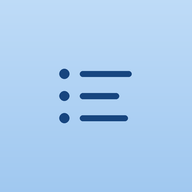
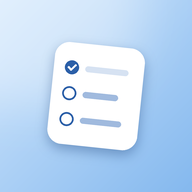
update

diff --git a/index.html b/index.html
@@ -78,13 +78,23 @@ h1,h2,h3,p{margin:0}
 .prog{height:3px;border-radius:3px;background:var(--line);overflow:hidden;margin-bottom:10px}
 .prog i{display:block;height:100%;width:0;background:var(--acc);border-radius:3px;transition:width .4s var(--ease)}
 
-.lists{display:flex;gap:8px;overflow-x:auto;padding:0 0 10px;scrollbar-width:none}
-.lists::-webkit-scrollbar{display:none}
-.lists .chip{flex:none;min-height:34px;padding:0 13px}
-.lists .chip small{margin-left:0;font-variant-numeric:tabular-nums}
-.lists .chip.on small{color:inherit;opacity:.75}
-.lists .chip.new{border-style:dashed;color:var(--mute)}
-body.shop .lists{display:none}
+.ibb{width:40px;height:40px;border-radius:50%;display:grid;place-items:center;border:1px solid var(--line);background:var(--surface);color:var(--q1);flex:none;position:relative;transition:transform .15s,background-color .15s,border-color .15s}
+.ibb .i{width:20px;height:20px}
+.ibb:active{transform:scale(.93)}
+.ibb.on{background:var(--soft);border-color:transparent}
+.ibb.dot::after{content:"";position:absolute;top:7px;right:7px;width:7px;height:7px;border-radius:50%;background:var(--q2);box-shadow:0 0 0 2px var(--surface)}
+.barin .ibb+.ibb{margin-left:2px}
+.pop{position:fixed;z-index:25;min-width:220px;max-width:calc(100vw - 24px);max-height:60vh;overflow:auto;background:var(--surface);border:1px solid var(--line);border-radius:14px;padding:6px;box-shadow:0 12px 36px rgba(0,0,0,.18);transform-origin:top right;animation:popin .16s var(--ease)}
+.pop.out{animation:popout .14s ease-in forwards}
+@keyframes popin{from{opacity:0;transform:scale(.94) translateY(-4px)}}
+@keyframes popout{to{opacity:0;transform:scale(.96) translateY(-3px)}}
+.popi{display:flex;align-items:center;gap:10px;width:100%;min-height:44px;padding:0 10px;border-radius:9px;font-size:15px;transition:background-color .12s}
+.popi:active{background:var(--fill)}
+.popi.on{color:var(--acc);font-weight:500}
+.popi .pc{width:18px;display:grid;place-items:center;flex:none}
+.popi .pc .i{width:17px;height:17px}
+.popi .pn{font-size:13px;color:var(--q2);font-variant-numeric:tabular-nums;font-weight:500}
+.popsep{height:1px;background:var(--line);margin:6px 4px}
 .inl.left{text-align:left}
 
 /* pagina-overgangen */
@@ -233,7 +243,7 @@ body:not(.shop) .shoponly,body:not(.shop) .nx,body:not(.shop) .shopbar{display:n
 @keyframes tin{from{opacity:0;transform:translate(-50%,10px)}}
 .toast button{font-weight:600;white-space:nowrap;color:inherit;text-decoration:underline;text-underline-offset:3px}
 .gate{position:fixed;inset:0;z-index:40;background:var(--bg);display:grid;place-items:center;padding:24px;text-align:center}
-.gate .logo{width:60px;height:60px;border-radius:17px;background:#a9cdf1;color:#17457f;display:grid;place-items:center;margin:0 auto 20px}
[1 lines of base64/hex data omitted]
 .gate .logo .i{width:28px;height:28px;stroke-width:1.8}
 .gate h1{font-size:24px;font-weight:600;letter-spacing:-.015em;margin-bottom:6px}
 .gate p{color:var(--mute);max-width:300px;margin:0 auto 24px;font-size:15px}
@@ -255,7 +265,6 @@ body:not(.shop) .shoponly,body:not(.shop) .nx,body:not(.shop) .shopbar{display:n
 <header class="top" id="top"><div class="wrap">
   <div class="barin" id="barIn"></div>
   <div id="listHead" hidden>
-    <div class="lists" id="listTabs"></div>
     <form class="add" id="addForm" autocomplete="off">
       <span id="addIco"></span>
       <input id="q" type="text" enterkeyhint="done" autocapitalize="sentences" placeholder="Voeg toe, bv. 2 paprika" aria-label="Product toevoegen">
@@ -278,6 +287,7 @@ body:not(.shop) .shoponly,body:not(.shop) .nx,body:not(.shop) .shopbar{display:n
 <nav class="tabs"><div id="tabs"></div></nav>
 <div class="shopbar"><button class="btn wide" data-a="shop">Klaar met winkelen</button></div>
 <div id="toastHost"></div>
+<div id="popHost"></div>
 
 <script src="firebase-config.js"></script>
 <script>
@@ -293,6 +303,17 @@ const CATS = [
  ["dieren","🐾","Huisdieren"],["overig","🛒","Overig"]];
 const CAT = Object.fromEntries(CATS.map(c => [c[0], {id:c[0], ico:c[1], name:c[2]}]));
 const DEFAULT_ORDER = CATS.map(c => c[0]);
+// Schappen zijn aan te passen in Instellingen: eigen naam en emoji, verbergen, of eigen schappen erbij.
+const CATS_BASE = CATS.map(c => c.slice());
+const catOf = c => CAT[c] ? c : "overig";
+function rebuildCats(){
+  const o = S.cats || {}, list = [];
+  CATS_BASE.forEach(([id, ico, name]) => { const x = o[id] || {}; if (x.hidden && id !== "overig") return; list.push([id, x.ico || ico, x.name || name]); });
+  Object.entries(o).filter(([, x]) => x.custom && x.name).sort((a, b) => (a[1].at || 0) - (b[1].at || 0)).forEach(([id, x]) => list.splice(list.length - 1, 0, [id, x.ico || "🏷", x.name]));
+  CATS.length = 0; list.forEach(c => CATS.push(c));
+  Object.keys(CAT).forEach(k => delete CAT[k]); CATS.forEach(c => { CAT[c[0]] = {id:c[0], ico:c[1], name:c[2]}; });
+  DEFAULT_ORDER.length = 0; CATS.forEach(c => DEFAULT_ORDER.push(c[0]));
+}
 const CATALOG_SRC = {
  groente:"Appels,Bananen,Peren,Sinaasappels,Mandarijnen,Citroen,Limoen,Druiven,Aardbeien,Blauwe bessen,Frambozen,Kiwi,Mango,Ananas,Meloen,Avocado,Tomaten,Cherrytomaten,Komkommer,Paprika,Courgette,Aubergine,Broccoli,Bloemkool,Spinazie,Sla,Rucola,Wortels,Ui,Rode ui,Knoflook,Prei,Champignons,Aardappelen,Zoete aardappel,Sperziebonen,Spruitjes,Boerenkool,Witlof,Bosui,Gember,Rode peper,Verse basilicum,Verse peterselie,Koriander,Mais,Pompoen,Venkel,Radijs,Bleekselderij,Rode kool,Witte kool,Paksoi,Taugé,Snoeptomaatjes",
  brood:"Brood,Volkorenbrood,Wit brood,Bruin brood,Krentenbollen,Croissants,Afbakbroodjes,Pistoletjes,Stokbrood,Tortilla wraps,Pitabroodjes,Beschuit,Crackers,Knäckebröd,Roggebrood,Ontbijtkoek,Bolletjes,Naanbrood",
@@ -361,8 +382,8 @@ for (const [cat, list] of Object.entries(CATALOG_SRC)) for (const name of list.s
 
 /* ---------- toestand ---------- */
 const LIST = "boodschappen";
-const PATH = {items:"lists/" + LIST + "/items", products:"products", stores:"stores", templates:"templates", history:"history", xlists:"xlists", xitems:"xitems"};
-const S = {items:{}, products:{}, stores:{}, templates:{}, history:{}, xlists:{}, xitems:{}};
+const PATH = {items:"lists/" + LIST + "/items", products:"products", stores:"stores", templates:"templates", history:"history", xlists:"xlists", xitems:"xitems", cats:"cats"};
+const S = {items:{}, products:{}, stores:{}, templates:{}, history:{}, xlists:{}, xitems:{}, cats:{}};
 let DB = null, user = null, ready = false, sheet = null, flashKey = null, wake = null;
 let trip = []; try { trip = JSON.parse(pref.get("trip", "[]")) || []; } catch {}
 const DAY = 864e5;
@@ -563,6 +584,7 @@ const IC = {
   clock:"<circle cx='12' cy='12' r='9'/><path d='M12 7v5l3 2'/>",
   share:"<path d='M12 15V3M8 7l4-4 4 4M5 12v7a1 1 0 0 0 1 1h12a1 1 0 0 0 1-1v-7'/>",
   grip:"<path d='M5 8h14M5 12h14M5 16h14'/>",
+  chevD:"<path d='m7 10 5 5 5-5'/>", tag:"<path d='M3 12V4a1 1 0 0 1 1-1h8l9 9-9 9z'/><circle cx='8' cy='8' r='1.4'/>", edit:"<path d='M4 20h4L19 9l-4-4L4 16z'/>",
   sliders:"<path d='M4 7h10M18 7h2M4 17h2M10 17h10'/><circle cx='16' cy='7' r='2'/><circle cx='8' cy='17' r='2'/>"
 };
 const ico = n => "<svg class='i' viewBox='0 0 24 24' aria-hidden='true'>" + IC[n] + "</svg>";
@@ -578,8 +600,8 @@ try { mq.addEventListener("change", applyTheme); } catch {}
 
 /* ---------- navigatie ---------- */
 const TABS = [["lijst", "Lijst", "list"], ["bijna-op", "Bijna op", "home"], ["templates", "Templates", "layers"], ["meer", "Meer", "more"]];
-const PARENT = {ding:"lijst", lijsten:"lijst", winkels:"meer", "vorige-lijsten":"meer", instellingen:"meer", looproute:"winkels", template:"templates", bezoek:"vorige-lijsten", product:"lijst"};
-const NEEDS = {ding:1, looproute:1, template:1, bezoek:1, product:1};
+const PARENT = {schappen:"instellingen", schap:"schappen", ding:"lijst", lijsten:"lijst", winkels:"meer", "vorige-lijsten":"meer", instellingen:"meer", looproute:"winkels", template:"templates", bezoek:"vorige-lijsten", product:"lijst"};
+const NEEDS = {schap:1, ding:1, looproute:1, template:1, bezoek:1, product:1};
 const PAGES = {}, args = {}, scrolls = {};
 let route = null, depth = 0, navDir = "", tick = {k:"", t:0};
 const hashName = () => { try { return decodeURIComponent(location.hash.slice(1)) || "lijst"; } catch { return "lijst"; } };
@@ -669,7 +691,7 @@ function renderSug(){
     const what = arg.explicit ? badge(arg) : (r.unit && r.dq ? amount({qty:r.dq, unit:r.unit}) : "");
     const right = r.isNew ? "<small>" + (what ? esc(what) + " · " : "") + "Nieuw product</small>"
       : it ? "<small class='inc'>Staat er al · " + amount(it) + (d === null ? "" : " → " + amount({qty:(it.qty || 1) + d, unit:it.unit})) + "</small>"
-      : "<small>" + (what ? esc(what) + " · " : "") + esc(CAT[r.cat].name) + "</small>";
+      : "<small>" + (what ? esc(what) + " · " : "") + esc(CAT[catOf(r.cat)].name) + "</small>";
     return "<button type='button' class='s" + (i === enterIdx ? " enter" : "") + "' data-a='pick' data-k='" + i + "'><span class='grow'>" + esc(r.name) + "</span>" + right + "</button>";
   }).join("");
   box.hidden = false;
@@ -710,7 +732,7 @@ function xadd(rawName, a){
 function xtoggle(k, quiet){ const it = S.xitems[k]; if (!it) return; DB.set("xitems", k, {checked:!it.checked, checkedAt:Date.now()}); if (!quiet) try { navigator.vibrate && navigator.vibrate(8); } catch {} }
 function xremove(k){ const old = S.xitems[k]; if (!old) return; DB.del("xitems", k); toast(old.name + " verwijderd", "Ongedaan maken", () => DB.set("xitems", k, old)); }
 function xstep(k, d){ const it = S.xitems[k]; if (!it) return; const st = stepOf(it.unit); if (d < 0 && (it.qty || 1) <= st) return xremove(k); DB.inc("xitems", k, "qty", d * st); }
-function renderX(l, shop){
+function renderX(l, shop, cur){
   const name = S.xlists[l].name, all = xOf(l), open = all.filter(([, v]) => !v.checked), done = all.filter(([, v]) => v.checked);
   $("progWrap").hidden = !all.length;
   $("prog").style.width = all.length ? (100 * done.length / all.length) + "%" : "0";
@@ -723,21 +745,37 @@ function renderX(l, shop){
     h += "<h3 class='ch'>In het karretje<span class='n'><button data-a='xclear'>Wissen</button></span></h3><div class='group'>" + done.map(([k, v]) => rowHtml(k, v, null, null, true)).join("") + "</div>";
   }
   $("list").innerHTML = h; flashKey = null;
-  return {title:shop ? "Winkelen bij " + name : name, sub:all.length ? done.length + " van " + all.length + " gepakt" : "Nog niets op de lijst", act:shop || !open.length ? "" : "<button class='pill' data-a='shop'>" + ico("cart") + "Winkelen</button>"};
+  const others = allLists().some(([id]) => id !== cur && openCount(id) > 0);
+  const listBtn = "<button class='ibb" + (others ? " dot" : "") + "' data-a='lists' aria-label='Lijsten' aria-haspopup='menu' aria-expanded='false'>" + ico("list") + "</button>";
+  return {title:shop ? "Winkelen bij " + name : name, sub:all.length ? done.length + " van " + all.length + " gepakt" : "Nog niets op de lijst", act:shop ? "" : listBtn + (open.length ? "<button class='ibb' data-a='shop' aria-label='Winkelen'>" + ico("cart") + "</button>" : "")};
 }
-function renderListTabs(cur){
-  const box = $("listTabs"), sl = box.scrollLeft, n0 = Object.values(S.items).filter(v => !v.checked).length;
-  const chip = (id, name, n) => "<button class='chip" + (id === cur ? " on" : "") + "' data-a='setlist' data-k='" + esc(id) + "'>" + esc(name) + (n ? "<small>" + n + "</small>" : "") + "</button>";
-  box.innerHTML = chip("boodschappen", "Boodschappen", n0) + Object.entries(S.xlists).sort((a, b) => a[1].name.localeCompare(b[1].name)).map(([id, l]) => chip(id, l.name, xOf(id).filter(([, v]) => !v.checked).length)).join("") +
-    "<button class='chip new' data-a='nav' data-k='lijsten'>" + ico("plus") + "Lijst</button>";
-  box.scrollLeft = sl;
+// Lijstkeuze: icoon rechtsboven, opent een klein menu met alle lijsten.
+const openCount = id => id === "boodschappen" ? Object.values(S.items).filter(v => !v.checked).length : xOf(id).filter(([, v]) => !v.checked).length;
+const allLists = () => [["boodschappen", "Boodschappen"]].concat(Object.entries(S.xlists).sort((a, b) => a[1].name.localeCompare(b[1].name)).map(([id, l]) => [id, l.name]));
+function popHtml(){
+  const cur = curList();
+  return "<div class='pop' role='menu'>" + allLists().map(([id, n]) => { const c = openCount(id); return "<button class='popi" + (id === cur ? " on" : "") + "' data-a='setlist' data-k='" + esc(id) + "' role='menuitemradio' aria-checked='" + (id === cur) + "'><span class='pc'>" + (id === cur ? ico("check") : "") + "</span><span class='grow'>" + esc(n) + "</span>" + (c ? "<span class='pn'>" + c + "</span>" : "") + "</button>"; }).join("") +
+    "<div class='popsep'></div><button class='popi' data-a='newlist'><span class='pc'>" + ico("plus") + "</span><span class='grow'>Nieuwe lijst</span></button><button class='popi' data-a='nav' data-k='lijsten'><span class='pc'>" + ico("edit") + "</span><span class='grow'>Lijsten beheren</span></button></div>";
 }
+function openPop(){
+  const btn = document.querySelector("#barIn [data-a=lists]"); if (!btn) return;
+  const r = btn.getBoundingClientRect(), host = $("popHost");
+  host.innerHTML = popHtml();
+  const p = host.firstChild;
+  p.style.top = (r.bottom + 6) + "px"; p.style.right = Math.max(12, window.innerWidth - r.right) + "px";
+  btn.classList.add("on"); btn.setAttribute("aria-expanded", "true");
+}
+function closePop(){
+  const host = $("popHost"), p = host.firstChild; if (!p) return;
+  const btn = document.querySelector("#barIn [data-a=lists]"); if (btn) { btn.classList.remove("on"); btn.setAttribute("aria-expanded", "false"); }
+  p.classList.add("out"); setTimeout(() => { if (host.firstChild === p) host.innerHTML = ""; }, 140);
+}
+const popOpen = () => !!($("popHost").firstChild && !$("popHost").firstChild.classList.contains("out"));
 function renderList(){
   const shop = document.body.classList.contains("shop"), cur = curList();
-  renderListTabs(cur);
   $("q").placeholder = cur === "boodschappen" ? "Voeg toe, bv. 2 paprika" : "Voeg toe aan " + S.xlists[cur].name;
   $("demo").style.display = cur === "boodschappen" ? "" : "none";
-  if (cur !== "boodschappen") return renderX(cur, shop);
+  if (cur !== "boodschappen") return renderX(cur, shop, cur);
   const all = Object.entries(S.items).sort((a, b) => a[1].name.localeCompare(b[1].name));
   const open = all.filter(([, v]) => !v.checked), done = all.filter(([, v]) => v.checked);
   const ts = tripStores(), ids = ts.map(s => s.id), multi = ts.length > 1;
@@ -762,10 +800,12 @@ function renderList(){
     h += "<h3 class='ch'>In het karretje<span class='n'><button data-a='clear'>Wissen</button></span></h3><div class='group'>" + done.map(([k, v]) => rowHtml(k, v)).join("") + "</div>";
   }
   $("list").innerHTML = h; flashKey = null;
+  const others = allLists().some(([id]) => id !== cur && openCount(id) > 0);
+  const listBtn = "<button class='ibb" + (others ? " dot" : "") + "' data-a='lists' aria-label='Lijsten' aria-haspopup='menu' aria-expanded='false'>" + ico("list") + "</button>";
   return {
     title: shop ? "Winkelen" : "Boodschappen",
     sub: (all.length ? done.length + " van " + all.length + " gepakt" : "Nog niets op de lijst") + (ids.some(i => i !== "standaard") ? " · <button data-a='nav' data-k='winkels'>" + esc(ts.map(s => s.name).join(" → ")) + "</button>" : ""),
-    act: shop || !open.length ? "" : "<button class='pill' data-a='shop'>" + ico("cart") + "Winkelen</button>"
+    act: shop ? "" : listBtn + (open.length ? "<button class='ibb' data-a='shop' aria-label='Winkelen'>" + ico("cart") + "</button>" : "")
   };
 }
 
@@ -773,7 +813,7 @@ function renderList(){
 PAGES["bijna-op"] = () => {
   const edit = !!args.stEdit, st = allProducts().filter(p => p.staple).sort(byName);
   let h = st.length ? "<p class='lead'>" + (edit ? "Tik op een product om het uit dit overzicht te halen." : "Tik aan wat thuis bijna op is. Het staat dan direct op de boodschappenlijst.") + "</p>" : empty("home", "Nog geen vaste producten", "Voeg hieronder toe wat jullie altijd in huis willen hebben.");
-  for (const c of DEFAULT_ORDER) { const r = st.filter(p => p.cat === c); if (r.length) h += catHead(c) + "<div class='chips'>" + r.map(p => "<button class='chip" + (!edit && onList(p.k) ? " on" : "") + "' data-a='staple' data-k='" + esc(p.k) + "'>" + esc(p.name) + (edit ? ico("x") : "") + "</button>").join("") + "</div>"; }
+  for (const c of DEFAULT_ORDER) { const r = st.filter(p => catOf(p.cat) === c); if (r.length) h += catHead(c) + "<div class='chips'>" + r.map(p => "<button class='chip" + (!edit && onList(p.k) ? " on" : "") + "' data-a='staple' data-k='" + esc(p.k) + "'>" + esc(p.name) + (edit ? ico("x") : "") + "</button>").join("") + "</div>"; }
   const sug = allProducts().filter(p => !p.staple && p.n >= 2).sort((a, b) => b.n - a.n).slice(0, 8);
   h += "<h3 class='ch'>Vast product toevoegen</h3><div class='line'><input class='field' id='stName' placeholder='bv. Olijfolie' enterkeyhint='done' data-enter='stnew'><button class='btn' data-a='stnew'>Toevoegen</button></div>" +
     (sug.length ? "<h3 class='ch'>Vaak gekocht</h3><div class='chips'>" + sug.map(p => "<button class='chip' data-a='stadd' data-k='" + esc(p.k) + "'>" + ico("plus") + esc(p.name) + "</button>").join("") + "</div>" : "");
@@ -833,10 +873,33 @@ PAGES.looproute = () => {
     ord.map(c => "<div class='cell" + (mv === c ? " flash" : "") + "'><span class='em'>" + CAT[c].ico + "</span><span class='grow'>" + esc(CAT[c].name) + "</span><span class='grip' aria-hidden='true'>" + ico("grip") + "</span></div>").join("") + "</div>" +
     (st.id !== "standaard" ? "<button class='btn text danger wide' data-a='sdel'>Winkel verwijderen</button>" : "<p class='hint'>De standaardwinkel kun je hernoemen, maar niet verwijderen.</p>")};
 };
+PAGES.schappen = () => {
+  const o = S.cats || {}, hidden = CATS_BASE.filter(c => o[c[0]] && o[c[0]].hidden);
+  return {title:"Schappen", html:
+    "<p class='lead'>Pas de naam of emoji van een schap aan, verberg schappen die je niet gebruikt, of maak eigen schappen. De volgorde stel je per winkel in bij de looproute.</p>" +
+    "<div class='group'>" + CATS.map(c => navCell("schap", c[0], "<span class='em' style='margin-right:10px'>" + c[1] + "</span>" + esc(c[2]), o[c[0]] && o[c[0]].custom ? "Eigen schap" : "")).join("") + "</div>" +
+    (hidden.length ? "<h3 class='ch'>Verborgen</h3><div class='group'>" + hidden.map(c => navCell("schap", c[0], "<span class='em' style='margin-right:10px;opacity:.5'>" + ((o[c[0]] && o[c[0]].ico) || c[1]) + "</span>" + esc((o[c[0]] && o[c[0]].name) || c[2]), "Verborgen")).join("") + "</div>" : "") +
+    "<h3 class='ch'>Schap toevoegen</h3><div class='line'><input class='field' id='catIco' style='flex:0 0 58px;text-align:center;padding:0' maxlength='4' placeholder='🏷' aria-label='Emoji'><input class='field' id='catName' placeholder='bv. Feestartikelen' enterkeyhint='done' autocapitalize='sentences' data-enter='catadd'><button class='btn' data-a='catadd'>Toevoegen</button></div>" +
+    "<p class='hint'>Producten in een verborgen of verwijderd schap komen onder Overig te staan.</p>"};
+};
+PAGES.schap = () => {
+  const id = args.schap, o = (S.cats || {})[id] || {}, base = CATS_BASE.find(c => c[0] === id);
+  if (!base && !o.custom) return gone();
+  const name = o.name || (base && base[2]), icon = o.ico || (base && base[1]) || "🏷", n = Object.values(S.items).filter(v => v.cat === id).length + Object.values(S.products).filter(p => p.cat === id).length;
+  const ka = " data-k='" + esc(id) + "'", changed = base && (o.name || o.ico);
+  return {title:name, html:
+    "<div class='group'><label class='cell'><span class='lbl'>Naam</span><input class='inl grow' id='catNameIn'" + ka + " value='" + esc(name) + "' enterkeyhint='done'></label>" +
+    "<label class='cell'><span class='grow'>Emoji</span><input class='inl' id='catIcoIn'" + ka + " value='" + esc(icon) + "' maxlength='4' style='width:60px;font-size:20px'></label>" +
+    (base && id !== "overig" ? "<div class='cell'><span class='grow'><span class='ct'>Tonen</span><span class='cs'>Verborgen schappen verdwijnen uit keuzelijsten en looproutes</span></span><button class='sw" + (o.hidden ? "" : " on") + "' data-a='cathide'" + ka + " role='switch' aria-checked='" + !o.hidden + "' aria-label='Tonen'><i></i></button></div>" : "") + "</div>" +
+    (id === "overig" ? "<p class='hint' style='margin:-4px 2px 18px'>Overig kun je niet verbergen: hier komen producten zonder passend schap.</p>" : "") +
+    (changed ? "<button class='btn text wide' data-a='catreset'" + ka + ">Oorspronkelijke naam en emoji terugzetten</button>" : "") +
+    (o.custom ? "<button class='btn text danger wide' data-a='catdel'" + ka + ">Schap verwijderen</button>" : "")};
+};
 PAGES.instellingen = () => {
   const t = pref.get("theme", "auto");
   return {title:"Instellingen", html:
     "<h3 class='ch'>Weergave</h3><div class='seg'>" + [["auto", "Systeem"], ["light", "Licht"], ["dark", "Donker"]].map(o => "<button data-a='theme' data-k='" + o[0] + "' class='" + (t === o[0] ? "on" : "") + "'>" + o[1] + "</button>").join("") + "</div><p class='hint' style='margin-top:-4px'>Geldt alleen voor dit apparaat.</p>" +
+    "<h3 class='ch'>Boodschappen</h3><div class='group'>" + navCell("schappen", undefined, "Schappen", CATS.length + " schappen", "tag") + "</div>" +
     "<h3 class='ch'>Account</h3><div class='group'>" + (user
       ? "<div class='cell'><span class='grow'>Naam</span><span class='qty'>" + esc(user.displayName || "") + "</span></div><div class='cell'><span class='grow'>E-mail</span><span class='qty'>" + esc(user.email || "") + "</span></div>"
       : "<div class='cell'><span class='grow'><span class='ct'>Demomodus</span><span class='cs'>Niet gekoppeld, alles staat alleen in deze browser</span></span></div>") + "</div>" +
@@ -870,7 +933,7 @@ PAGES.product = () => {
     "<div class='seg'>" + UNIT_LABEL.map(u => "<button data-a='setunit'" + ka + " data-u='" + u[0] + "' class='" + ((it.unit || "") === u[0] ? "on" : "") + "'>" + u[1] + "</button>").join("") + "</div>" +
     "<div class='group'><label class='cell'><span class='grow'>Precies aantal</span><input class='inl' id='amtIn'" + ka + " inputmode='decimal' value='" + fmt(it.qty || 1) + "'></label>" +
     "<label class='cell'><span class='lbl'>Notitie</span><input class='inl grow' id='noteIn'" + ka + " value='" + esc(it.note) + "' placeholder='bv. merk of rijpheid' enterkeyhint='done'></label></div>" +
-    "<div class='group'><label class='cell'><span class='grow'>Schap</span><select id='catSel'" + ka + ">" + CATS.map(c => "<option value='" + c[0] + "'" + (it.cat === c[0] ? " selected" : "") + ">" + c[1] + " " + esc(c[2]) + "</option>").join("") + "</select>" + ico("down") + "</label>" +
+    "<div class='group'><label class='cell'><span class='grow'>Schap</span><select id='catSel'" + ka + ">" + CATS.map(c => "<option value='" + c[0] + "'" + (catOf(it.cat) === c[0] ? " selected" : "") + ">" + c[1] + " " + esc(c[2]) + "</option>").join("") + "</select>" + ico("down") + "</label>" +
     (shops.length ? "<label class='cell'><span class='grow'>Kopen bij</span><select id='storeSel'" + ka + "><option value=''>Maakt niet uit</option>" + shops.map(s => "<option value='" + esc(s.id) + "'" + (cs === s.id ? " selected" : "") + ">" + esc(s.name) + "</option>").join("") + "</select>" + ico("down") + "</label>" : "") +
     "<div class='cell'><span class='grow'><span class='ct'>Bijna op</span><span class='cs'>Vast product dat je thuis snel aantikt</span></span><button class='sw" + (staple ? " on" : "") + "' data-a='stoggle'" + ka + " role='switch' aria-checked='" + staple + "' aria-label='Bijna op'><i></i></button></div></div>" +
     "<p class='hint' style='margin:-4px 2px 18px'>Schap, winkel en eenheid worden onthouden voor de volgende keer." + (it.by ? " Toegevoegd door " + esc(it.by) + "." : "") + "</p>" +
@@ -899,6 +962,7 @@ function leaveRow(row, k, checking, fn){
 }
 function render(force){
   if (!ready || !route || dragLock) return;
+  rebuildCats();
   if (hold > 0) { pending = true; return; }
   const isList = route === "lijst";
   $("pgList").hidden = !isList; $("listHead").hidden = !isList; $("page").hidden = isList;
@@ -961,7 +1025,19 @@ const ACT = {
     done.forEach(([k]) => DB.del("xitems", k));
     toast(nProd(done.length) + " gewist", "Ongedaan maken", () => done.forEach(([k, v]) => DB.set("xitems", k, v)));
   },
-  setlist:k => { if (k === curList()) return; pref.set("list", k); $("q").value = ""; setShop(false, true); render(true); window.scrollTo(0, 0); const m = $("pgList"); m.classList.remove("swap"); void m.offsetWidth; m.classList.add("swap"); },
+  catadd:() => {
+    const inp = $("catName"), name = inp.value.trim(); if (!name) return inp.focus();
+    const ic = $("catIco").value.trim(), id = "c-" + keyOf(name).replace(/ /g, "-");
+    if (CAT[id] || CATS_BASE.some(c => c[0] === id)) return toast("Dat schap bestaat al");
+    inp.value = ""; $("catIco").value = ""; inp.blur();
+    DB.set("cats", id, {custom:true, name, ico:ic || "🏷", at:Date.now()}); toast("Schap " + name + " toegevoegd"); render(true);
+  },
+  cathide:(k, t) => { const on = !t.classList.contains("on"); t.classList.toggle("on", on); setTimeout(() => DB.set("cats", k, {hidden:!on}), 200); },
+  catreset:k => { const o = S.cats[k] || {}; DB.set("cats", k, {...o, name:"", ico:""}); render(true); },
+  catdel:k => { const old = S.cats[k]; if (!old) return; back(); DB.del("cats", k); toast("Schap " + old.name + " verwijderd", "Ongedaan maken", () => DB.set("cats", k, old)); },
+  lists:() => popOpen() ? closePop() : openPop(),
+  newlist:() => { closePop(); go("lijsten"); setTimeout(() => { const i = $("lName"); if (i) i.focus(); }, 300); },
+  setlist:k => { closePop(); if (k === curList()) return; pref.set("list", k); $("q").value = ""; setShop(false, true); render(true); window.scrollTo(0, 0); const m = $("pgList"); m.classList.remove("swap"); void m.offsetWidth; m.classList.add("swap"); },
   ladd:() => {
     const inp = $("lName"), name = inp.value.trim(); if (!name) return inp.focus();
     const id = keyOf(name); if (!id || id === "boodschappen") return inp.focus();
@@ -1000,7 +1076,7 @@ const ACT = {
     else for (const st of ts) {
       const mine = Object.entries(S.items).filter(([k, v]) => !v.checked && storeOf(k, v, ids) === st.id).map(e => e[1]); if (!mine.length) continue;
       if (ts.length > 1) lines.push("== " + st.name + " ==");
-      for (const c of order(st)) { const r = mine.filter(v => v.cat === c).sort(byName); if (r.length) lines.push(CAT[c].name + ":", ...r.map(v => "- " + (v.unit ? amount(v) + " " : (v.qty || 1) > 1 ? v.qty + "x " : "") + v.name + (v.note ? " (" + v.note + ")" : "")), ""); }
+      for (const c of order(st)) { const r = mine.filter(v => catOf(v.cat) === c).sort(byName); if (r.length) lines.push(CAT[c].name + ":", ...r.map(v => "- " + (v.unit ? amount(v) + " " : (v.qty || 1) > 1 ? v.qty + "x " : "") + v.name + (v.note ? " (" + v.note + ")" : "")), ""); }
     }
     if (!lines.length) return toast("Er staat niets open op de lijst");
     const txt = lines.join("\n").trim();
@@ -1059,7 +1135,9 @@ const ACT = {
   signout:() => { DB.signOut(); }
 };
 document.addEventListener("click", e => {
-  const t = e.target.closest("[data-a]"); if (!t || t.disabled || !ACT[t.dataset.a]) return;
+  const t = e.target.closest("[data-a]");
+  if (popOpen() && !e.target.closest(".pop") && !(t && t.dataset.a === "lists")) { closePop(); if (!t || t.closest("#barIn")) return; }
+  if (!t || t.disabled || !ACT[t.dataset.a]) return;
   const ae = document.activeElement;
   if (ae && ae !== t && /INPUT|SELECT/.test(ae.tagName) && (ae.id === "amtIn" || ae.id === "noteIn")) ae.blur();
   ACT[t.dataset.a](t.dataset.k, t, e);
@@ -1069,6 +1147,7 @@ document.addEventListener("change", e => {
   const col = t.dataset.c || "items";
   if (t.dataset.ln) { const n = t.value.trim(); if (n && S.xlists[t.dataset.ln]) DB.set("xlists", t.dataset.ln, {name:n}); else render(true); }
   else if (t.id === "noteIn") DB.set(col, k, {note:t.value.trim()});
+  else if (t.id === "catNameIn" || t.id === "catIcoIn") { const v = t.value.trim(), f = t.id === "catNameIn" ? "name" : "ico"; if (v) DB.set("cats", k, {[f]:v}); render(true); }
   else if (t.id === "stoName") { const n = t.value.trim(), st = storeList().find(s => s.id === k); if (n && st) DB.set("stores", k, {name:n, order:order(st)}); else render(true); }
   else if (t.id === "tplName") { const n = t.value.trim(); if (n && S.templates[k]) DB.set("templates", k, {name:n}); else render(true); }
   else if (t.id === "amtIn") { const n = parseFloat(t.value.replace(",", ".")); t.blur(); if (n > 0) DB.set(col, k, {qty:Math.round(n * 100) / 100}); else render(true); }
@@ -1078,7 +1157,7 @@ document.addEventListener("change", e => {
 document.addEventListener("keydown", e => {
   const t = e.target; if (e.key !== "Enter" || !t.dataset) return;
   if (t.dataset.enter) { e.preventDefault(); ACT[t.dataset.enter](); }
-  else if (t.id === "amtIn" || t.id === "noteIn" || t.id === "tplName" || t.id === "stoName" || t.dataset.ln) t.blur();
+  else if (t.id === "amtIn" || t.id === "noteIn" || t.id === "tplName" || t.id === "stoName" || t.id === "catNameIn" || t.id === "catIcoIn" || t.dataset.ln) t.blur();
 });
 document.addEventListener("focusout", e => { if ($("page").contains(e.target)) setTimeout(() => { if (route !== "lijst") render(); }, 0); });
 $("addForm").addEventListener("submit", e => {
@@ -1090,7 +1169,9 @@ $("q").addEventListener("input", renderSug);
 $("q").addEventListener("focus", renderSug);
 $("q").addEventListener("blur", () => setTimeout(renderSug, 180));
 $("sug").addEventListener("pointerdown", e => e.preventDefault());
-addEventListener("hashchange", onRoute);
+addEventListener("hashchange", () => { closePop(); onRoute(); });
+document.addEventListener("keydown", e => { if (e.key === "Escape") closePop(); });
+addEventListener("resize", closePop);
 
 /* ---------- slepen in de looproute ---------- */
 let drag = null, dragLock = false;
@@ -1156,7 +1237,7 @@ document.addEventListener("visibilitychange", () => { if (document.visibilitySta
 
 /* ---------- start ---------- */
 applyTheme(); buildTabs();
-$("addIco").outerHTML = ico("plus"); $("addBtn").innerHTML = ico("arrowUp"); $("gateLogo").innerHTML = ico("list");
+$("addIco").outerHTML = ico("plus"); $("addBtn").innerHTML = ico("arrowUp"); 
 const cfg = window.FIREBASE_CONFIG || {};
 if (cfg.apiKey) { DB = Fire; Fire.init(cfg).catch(e => gate("Firebase laden mislukt: " + (e.message || e))); }
 else { DB = Local; Local.init(); }
